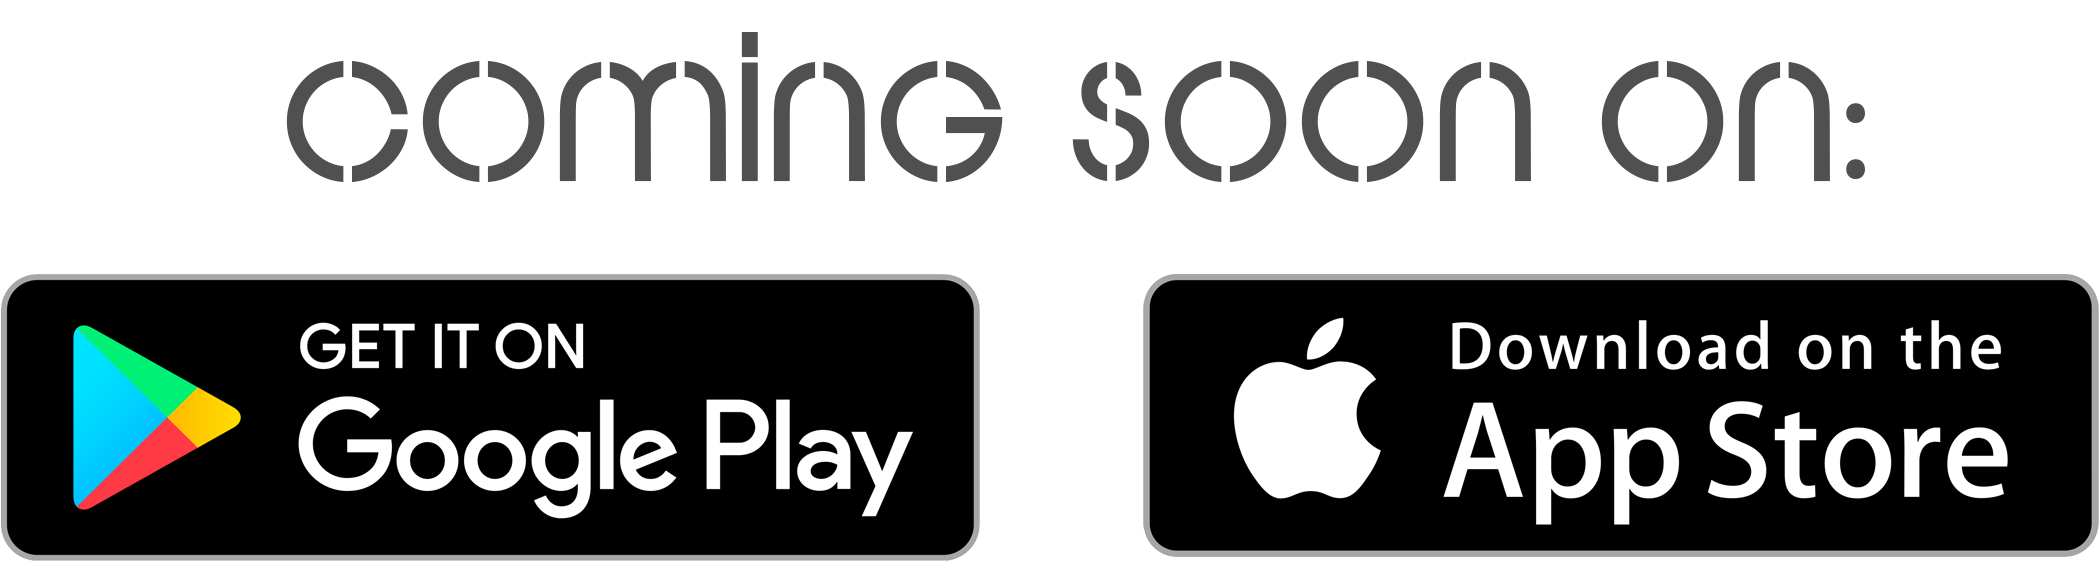
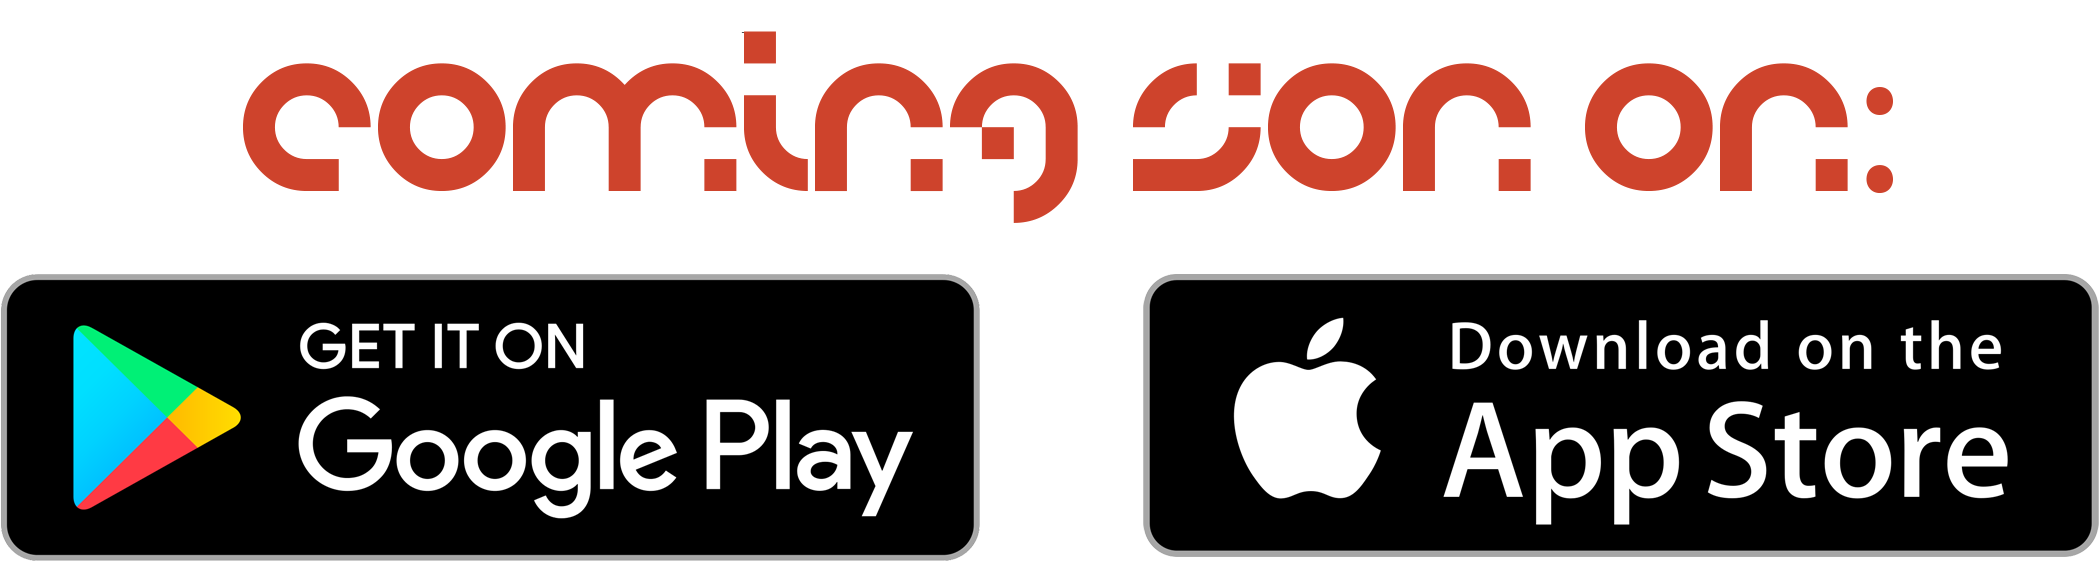
new

Changed region(s): [[0.0929, 0.0606, 0.929, 0.3939]]

diff --git a/src/App.vue b/src/App.vue
@@ -9,17 +9,21 @@
             </v-col>
             <v-col cols="6">
                 <h5 class="white--text font-weight-thin">Hello There,</h5>
-                <h3 class="orange--text font-weight-black text-darken-4 top" max-width="100"> Easy Living with Logistics/Proxy services.</h3>
+                <h3 class="red--text font-weight-black text-darken-4 top" max-width="100"> Easy Living with Logistics/Proxy services.</h3>
                 <h6 class="white--text font-weight-regular text-center" >We make it easy for you to manage your shipments 
                   and logistics online, From finding a courier/proxy that is ready to be at your service anytime anywhere and on time.</h6>
                   <v-btn class="br " max-height="80" max-width="120" color="#111111"  ><v-img elevation="20" max-height="80" max-width="100" src="ga.png" /> </v-btn>
             </v-col>
+            <v-divider
+              
+            ></v-divider>
             <WaitList class="top"/>
-            
-            
+            <v-divider
+              inset
+            ></v-divider>
           </v-row >
       </v-container>  
-             
+              <AboutUs class="first"/>
               <AccorDion class="first"/>
              
     </v-main>
@@ -32,6 +36,8 @@ import NavBar from "./components/NavBar.vue";
 import WaitList from "./components/WaitList.vue";
 import FooTer from "./components/FooTer.vue";
 import AccorDion from "./components/AccorDion.vue";
+import AboutUs from "./components/AboutUs.vue";
+
 
 
 
@@ -45,7 +51,8 @@ export default {
     NavBar,
     WaitList,
     FooTer,
-    AccorDion
+    AccorDion,
+    AboutUs
 }
 };
 </script>

diff --git a/src/components/AboutUs.vue b/src/components/AboutUs.vue
@@ -1,0 +1,37 @@
+<template>
+<div >
+    <v-img src="about.png" class="mx-5" contain max-height="100"  max-width="300"/>
+    <v-parallax
+    height="1500"
+    src="bgg.png"
+  >
+        <v-row elevation="16">
+            <v-col col="6">
+                <v-img src="1.png" transition="slide-x-transition" contain  max-height="300"/>
+            </v-col>
+             <v-col col="6">
+                <v-img  src="2.png" transition="slide-x-reverse-transition" contain  max-height="250"/>
+            </v-col>
+        </v-row>
+        <v-row elevation="16">
+             <v-col col="6">
+                <v-img transition="slide-x-transition" src="3.png" contain  max-height="300"/>
+            </v-col>
+             <v-col col="6">
+                <v-img src="4.png" contain  max-height="250"/>
+            </v-col>
+             <v-col col="6">
+                <v-img src="5.png" contain  max-height="300"/>
+            </v-col>
+        </v-row>
+    </v-parallax>
+</div>
+</template>
+
+<script>
+
+</script>
+
+<style>
+
+</style>

diff --git a/public/index.html b/public/index.html
@@ -5,7 +5,7 @@
     <meta http-equiv="X-UA-Compatible" content="IE=edge">
     <meta name="viewport" content="width=device-width,initial-scale=1.0">
     <link rel="icon" href="<%= BASE_URL %>favicon.ico">
-    <title>At Xlistics we aid Easy Living with Logistics/Proxy services.</title>
+    <title>At Xlistics  We simplify  your logistics  services and connect you to fast and reliable couriers/proxy...</title>
     <link rel="stylesheet" href="https://fonts.googleapis.com/css?family=Roboto:100,300,400,500,700,900">
     <link rel="stylesheet" href="https://cdn.jsdelivr.net/npm/@mdi/font@latest/css/materialdesignicons.min.css">
   </head>

diff --git a/src/components/FooTer.vue b/src/components/FooTer.vue
@@ -22,8 +22,8 @@
         </v-btn>
       </v-card-text>
 
-      <v-card-text class="white--text pt-0">
-        Phasellus feugiat arcu sapien, et iaculis ipsum elementum sit amet. ontes, nascetur ridiculus mus.
+      <v-card-text center class="grey--text pt-0">
+        We simplify  your logistics  services and connect you to fast and reliable couriers/proxy.
       </v-card-text>
       <v-divider></v-divider>
       <v-card-text class="py-2 caption font-weight-thin white--text text-center">

diff --git a/src/components/WaitList.vue b/src/components/WaitList.vue
@@ -1,8 +1,9 @@
 
 <template>
-    <v-container fluid class="wvv">
+    <v-container transition="slide-x-reverse-transition"
+       fluid class="wvv">
     <v-row >
-        <v-btn 
+        <v-btn  
         color="#111111"
         elevation="10"
         fab block @click="dialog = !dialog"

diff --git a/src/components/AccorDion.vue b/src/components/AccorDion.vue
@@ -1,6 +1,6 @@
 <template>
   <div class="avv">
-    <v-img src="faq.png" class="xx mx-10" contain max-height="100"  max-width="300"/>
+    <v-img src="faq.png" class="xx" contain max-height="100"  max-width="300"/>
 
     <v-expansion-panels>
       <v-expansion-panel class="mt-2">
